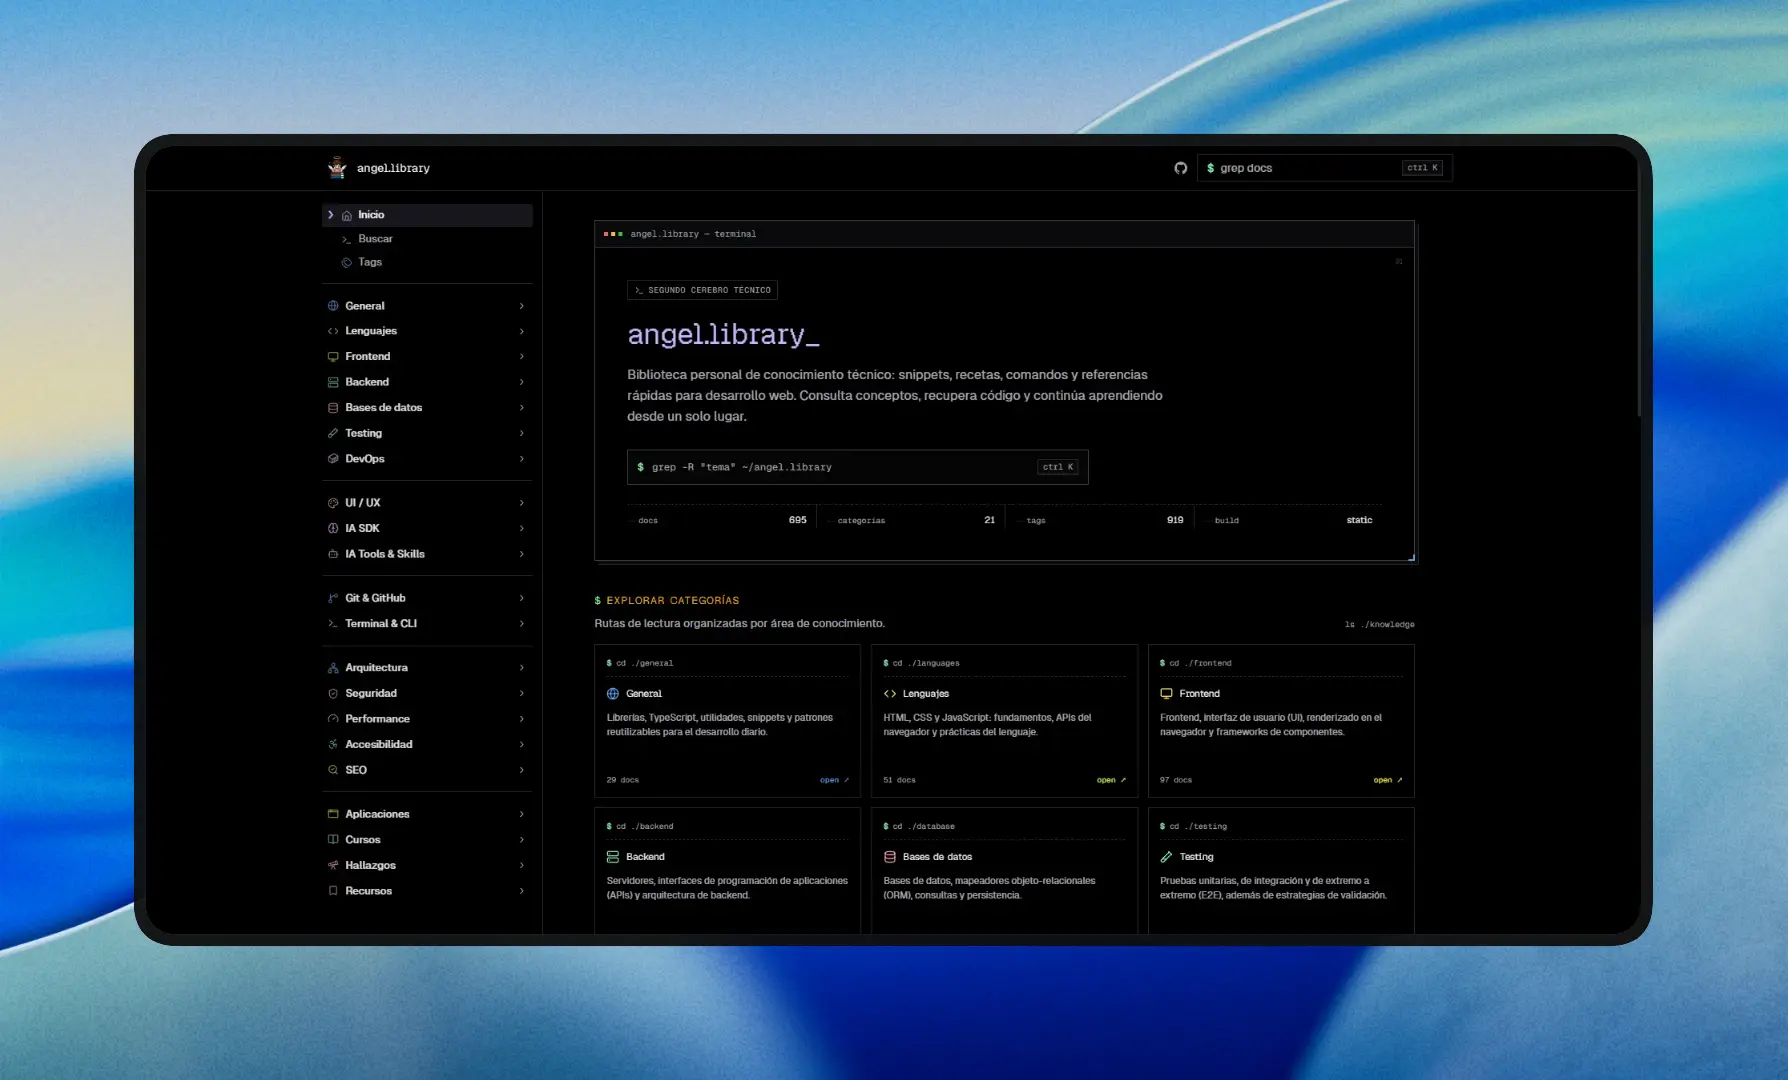
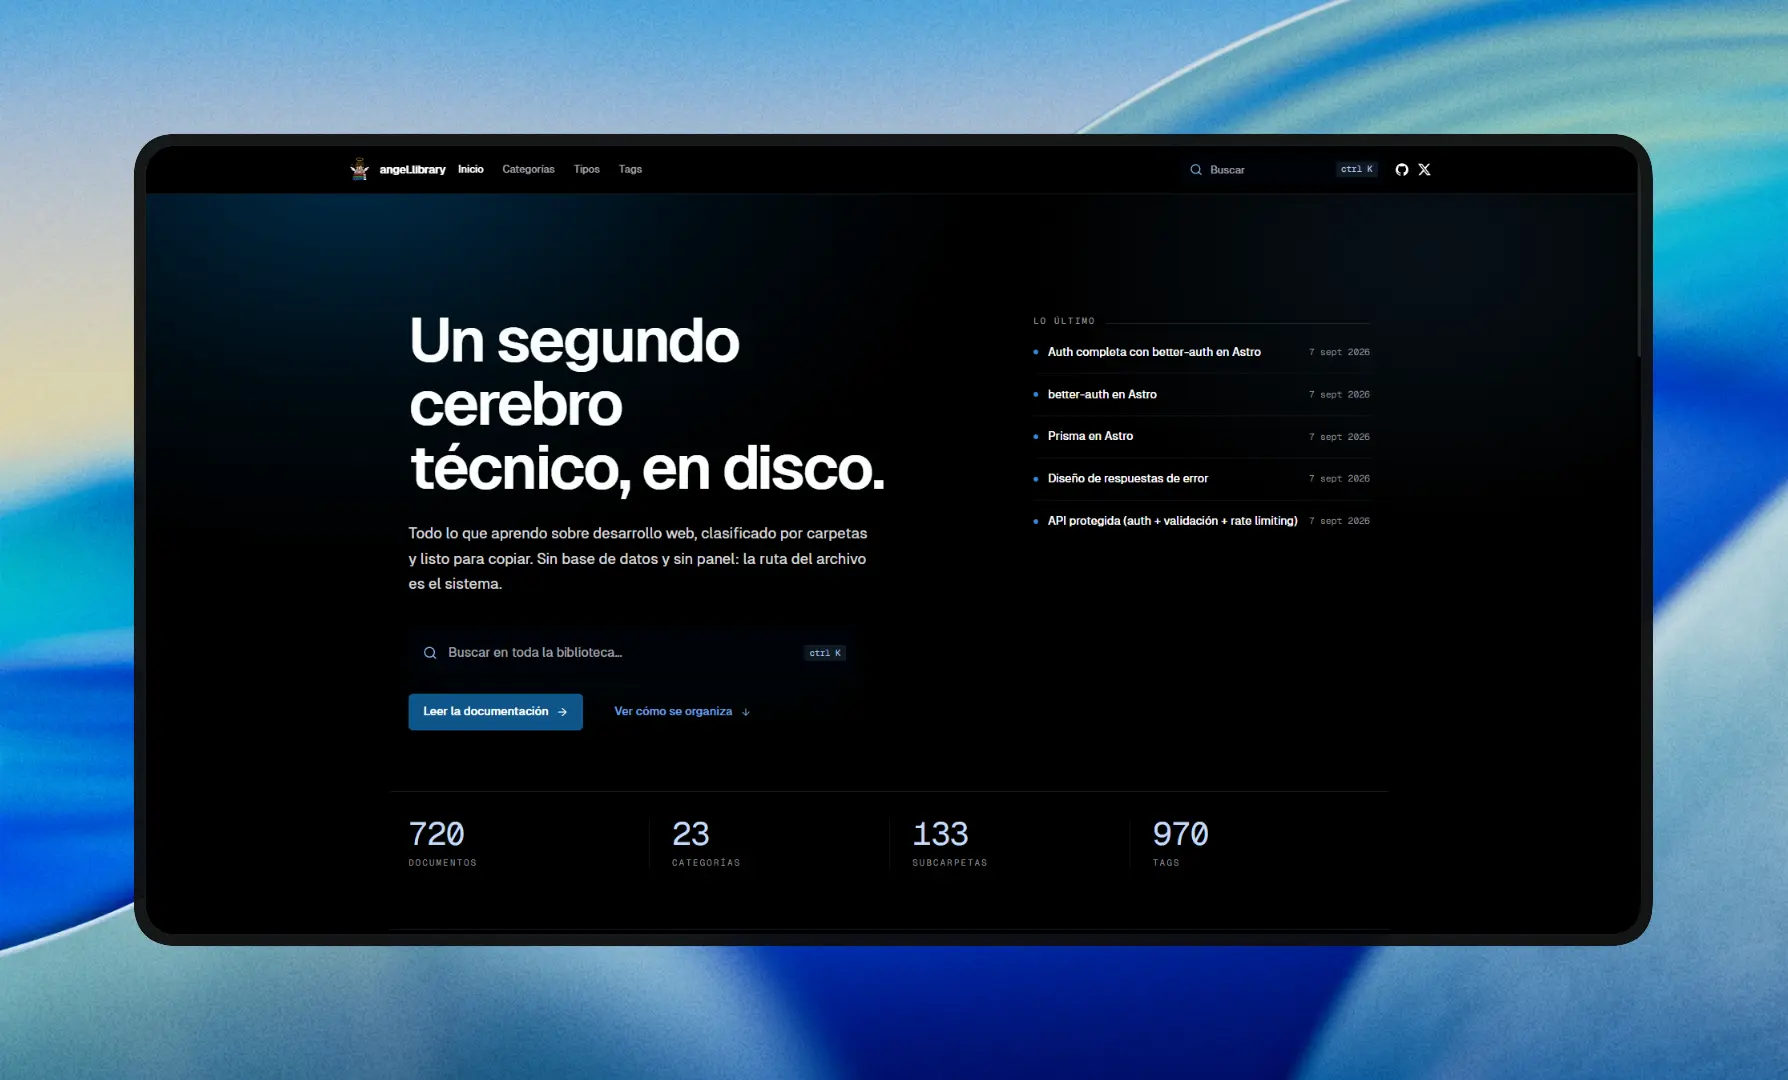
chore: update version to 1.5.1, replace angel.library project cover image

diff --git a/CHANGELOG.md b/CHANGELOG.md
@@ -7,6 +7,12 @@ and this project adheres to [Semantic Versioning](https://semver.org/spec/v2.0.0
 
 ## [Unreleased]
 
+## [1.5.1] - 2026-09-07
+
+### Changed
+
+- Replaced the `angel.library` project cover image (`src/content/assets/projects/angel-library-project.webp`).
+
 ## [1.5.0] - 2026-09-02
 
 ### Added
@@ -316,7 +322,7 @@ and this project adheres to [Semantic Versioning](https://semver.org/spec/v2.0.0
 
 ## Version Support
 
-- **Current version**: 1.5.0
+- **Current version**: 1.5.1
 - **Node.js**: >= 22.12.0
 - **pnpm**: >= 9.0.0
 - **Browsers**: Modern browsers (Chrome 90+, Firefox 88+, Safari 14+, Edge 90+)
